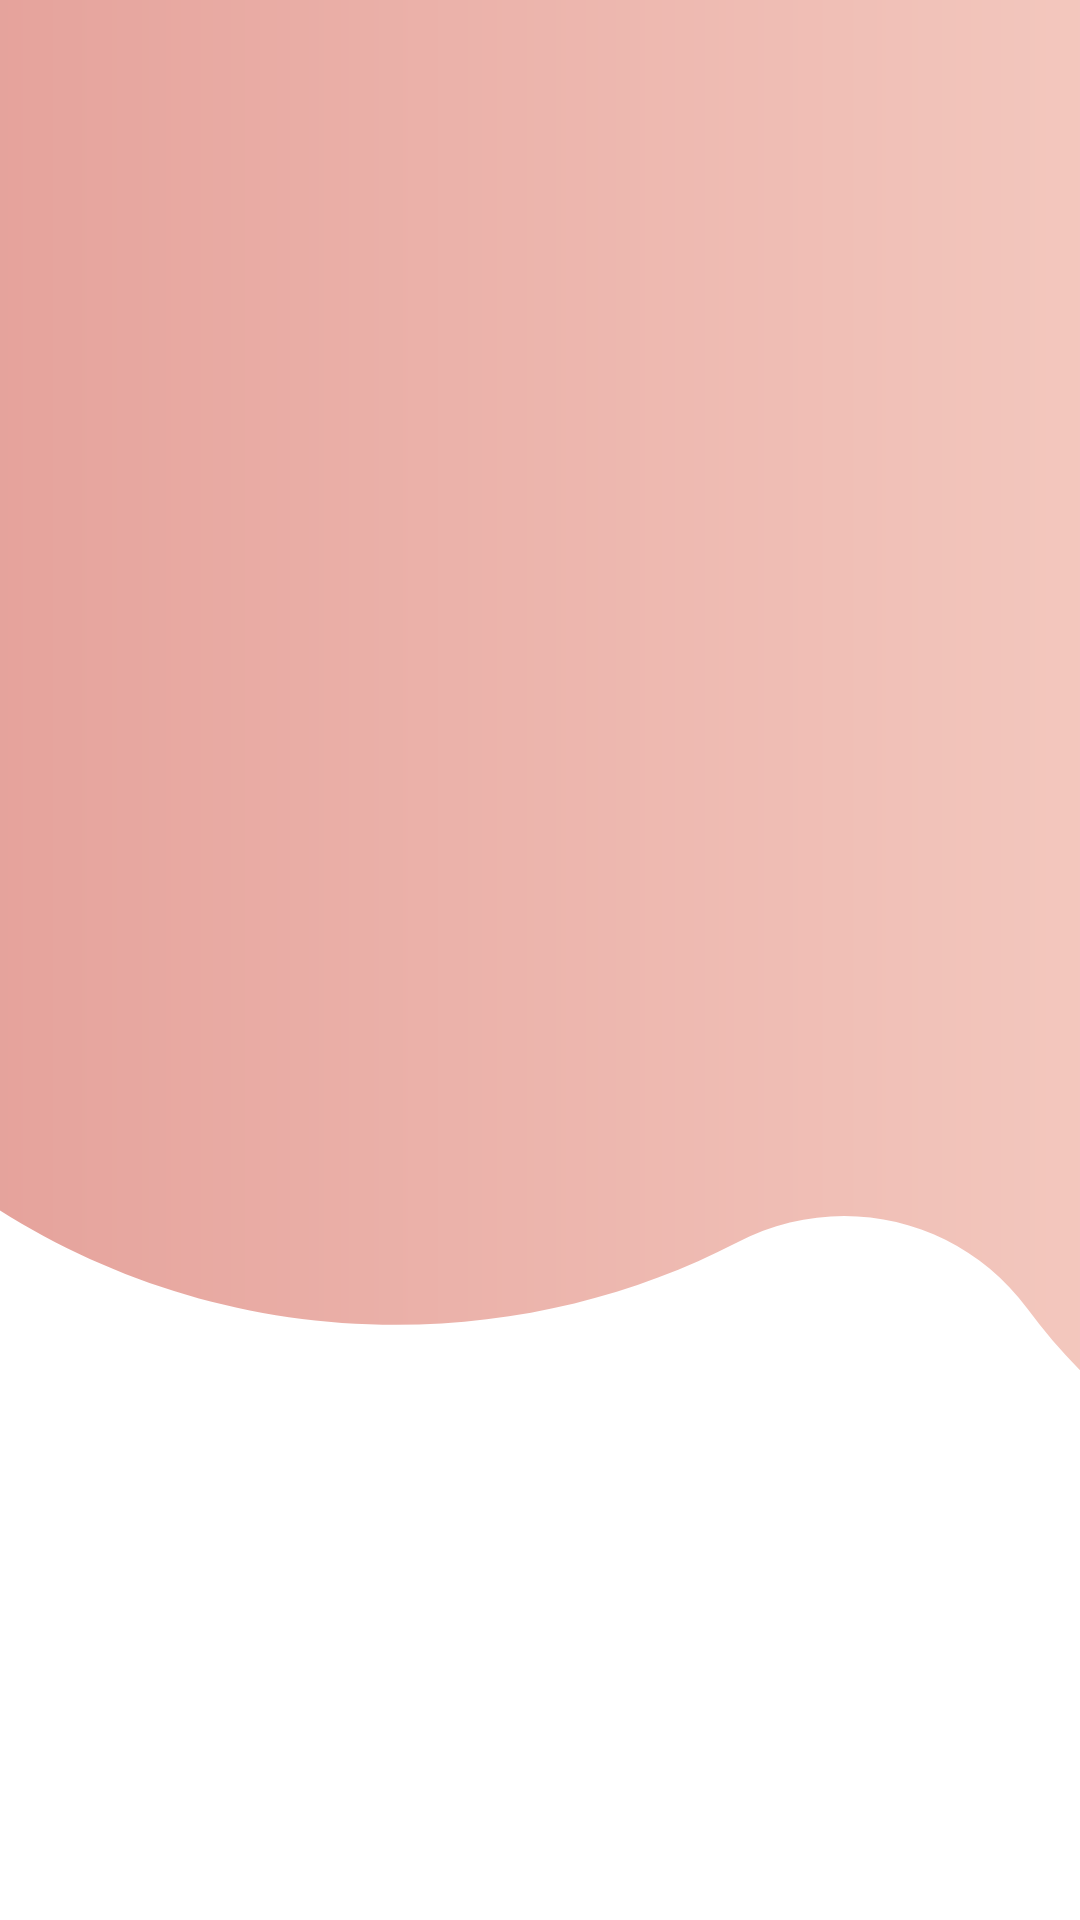
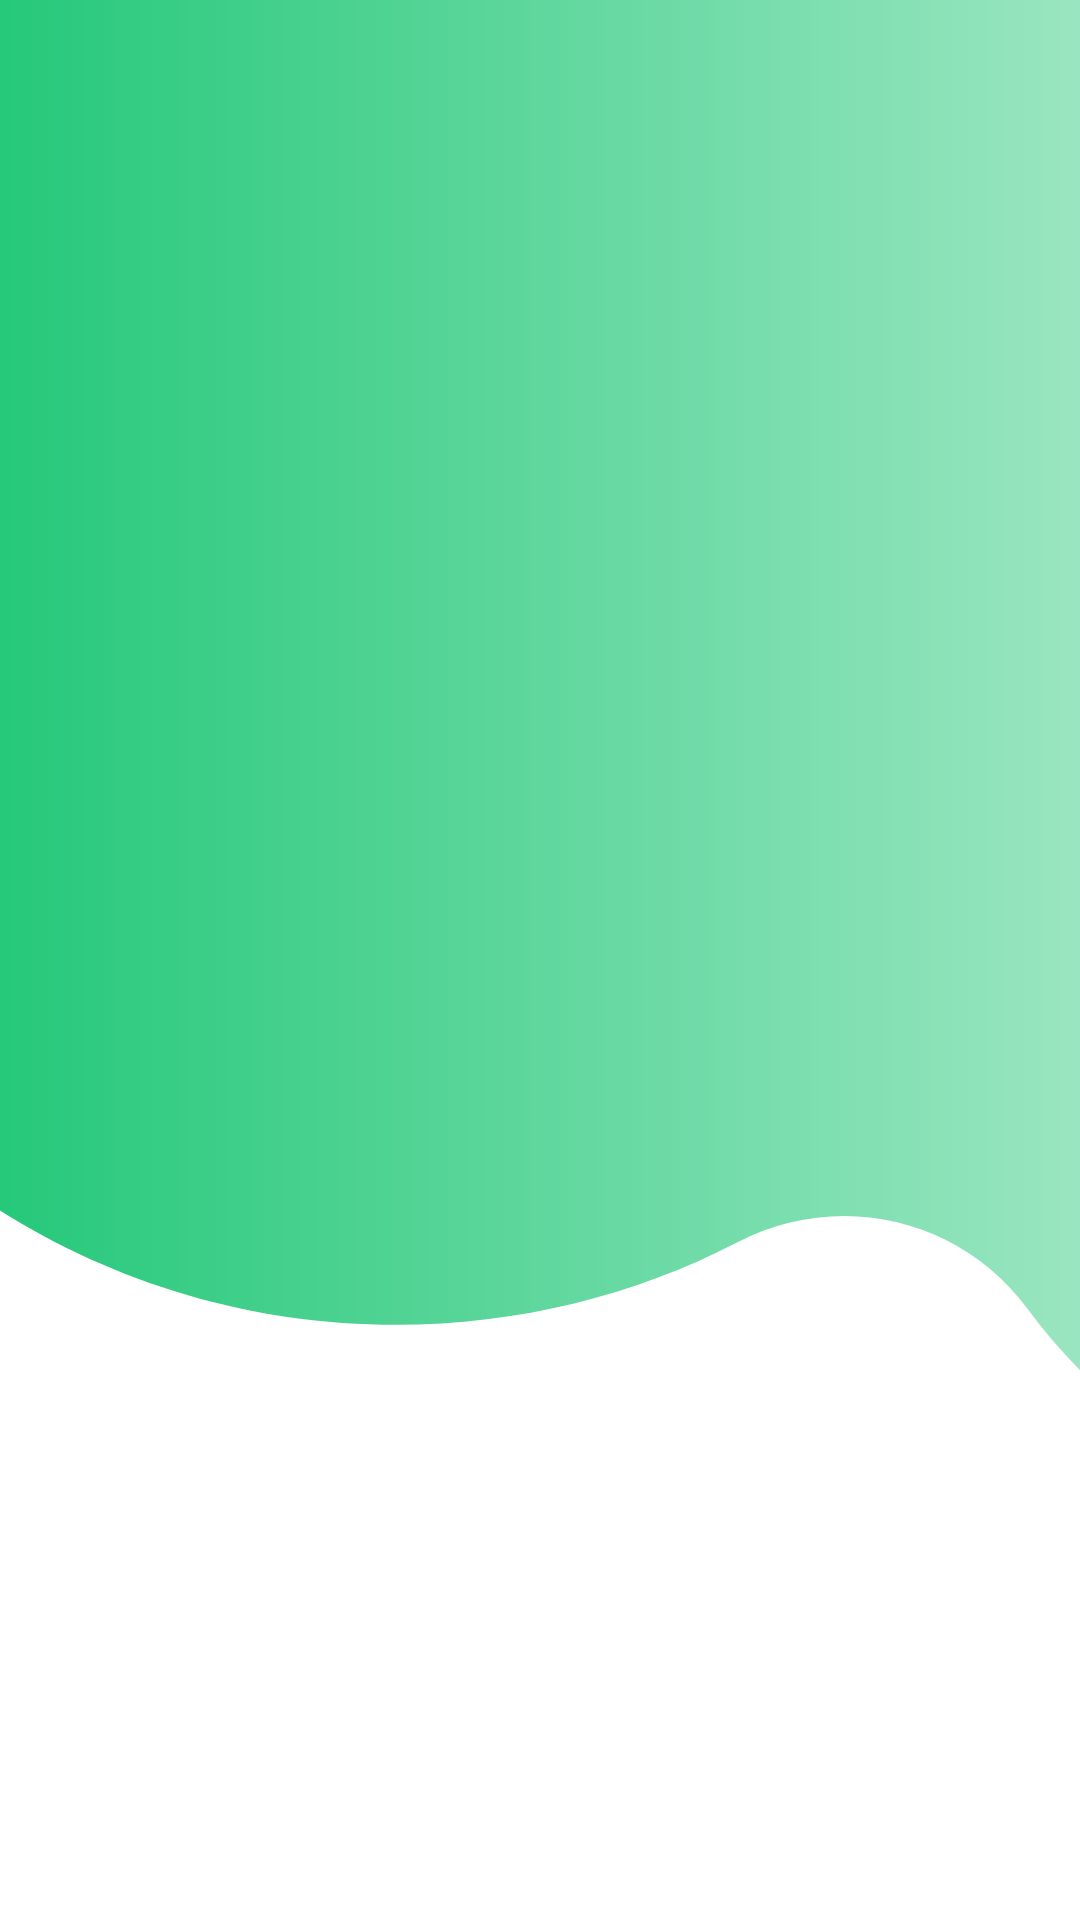
Test: Test if it right user

diff --git a/frontend/screens/LoginScreen.tsx b/frontend/screens/LoginScreen.tsx
@@ -24,6 +24,7 @@ import ZegoUIKitPrebuiltCallService from '@zegocloud/zego-uikit-prebuilt-call-rn
 import * as ZIM from 'zego-zim-react-native';
 import * as ZPNs from 'zego-zpns-react-native';
 import {ZEGO_APP_ID, ZEGO_APP_SIGN} from '../components/data/SecretData';
+import Colors from '../global/Color';
 
 enableScreens();
 
@@ -267,7 +268,7 @@ const LoginScreen = ({navigation}: any) => {
             onPress={handleLogin}
             titleStyle={{fontWeight: '700', fontSize: 20}}
             buttonStyle={{
-              backgroundColor: '#F6836B',
+              backgroundColor: Colors.greenPrimary,
               borderColor: 'transparent',
               borderWidth: 0,
               borderRadius: 30,

diff --git a/frontend/navigations/Routers.tsx b/frontend/navigations/Routers.tsx
@@ -43,11 +43,9 @@ const Router = () => {
 
   return (
     <>
-      <Stack.Navigator
-        screenOptions={{headerShown: false}}
-        initialRouteName="BottomTabNavigator">
+      <Stack.Navigator screenOptions={{headerShown: false}}>
         <>
-          <Stack.Screen name="Testing" component={TestScreen} />
+          {/* <Stack.Screen name="Testing" component={TestScreen} /> */}
           <Stack.Screen name="Landing" component={LandingScreen} />
           <Stack.Screen name="Register" component={RegisterScreen} />
           <Stack.Screen name="Login" component={LoginScreen} />
